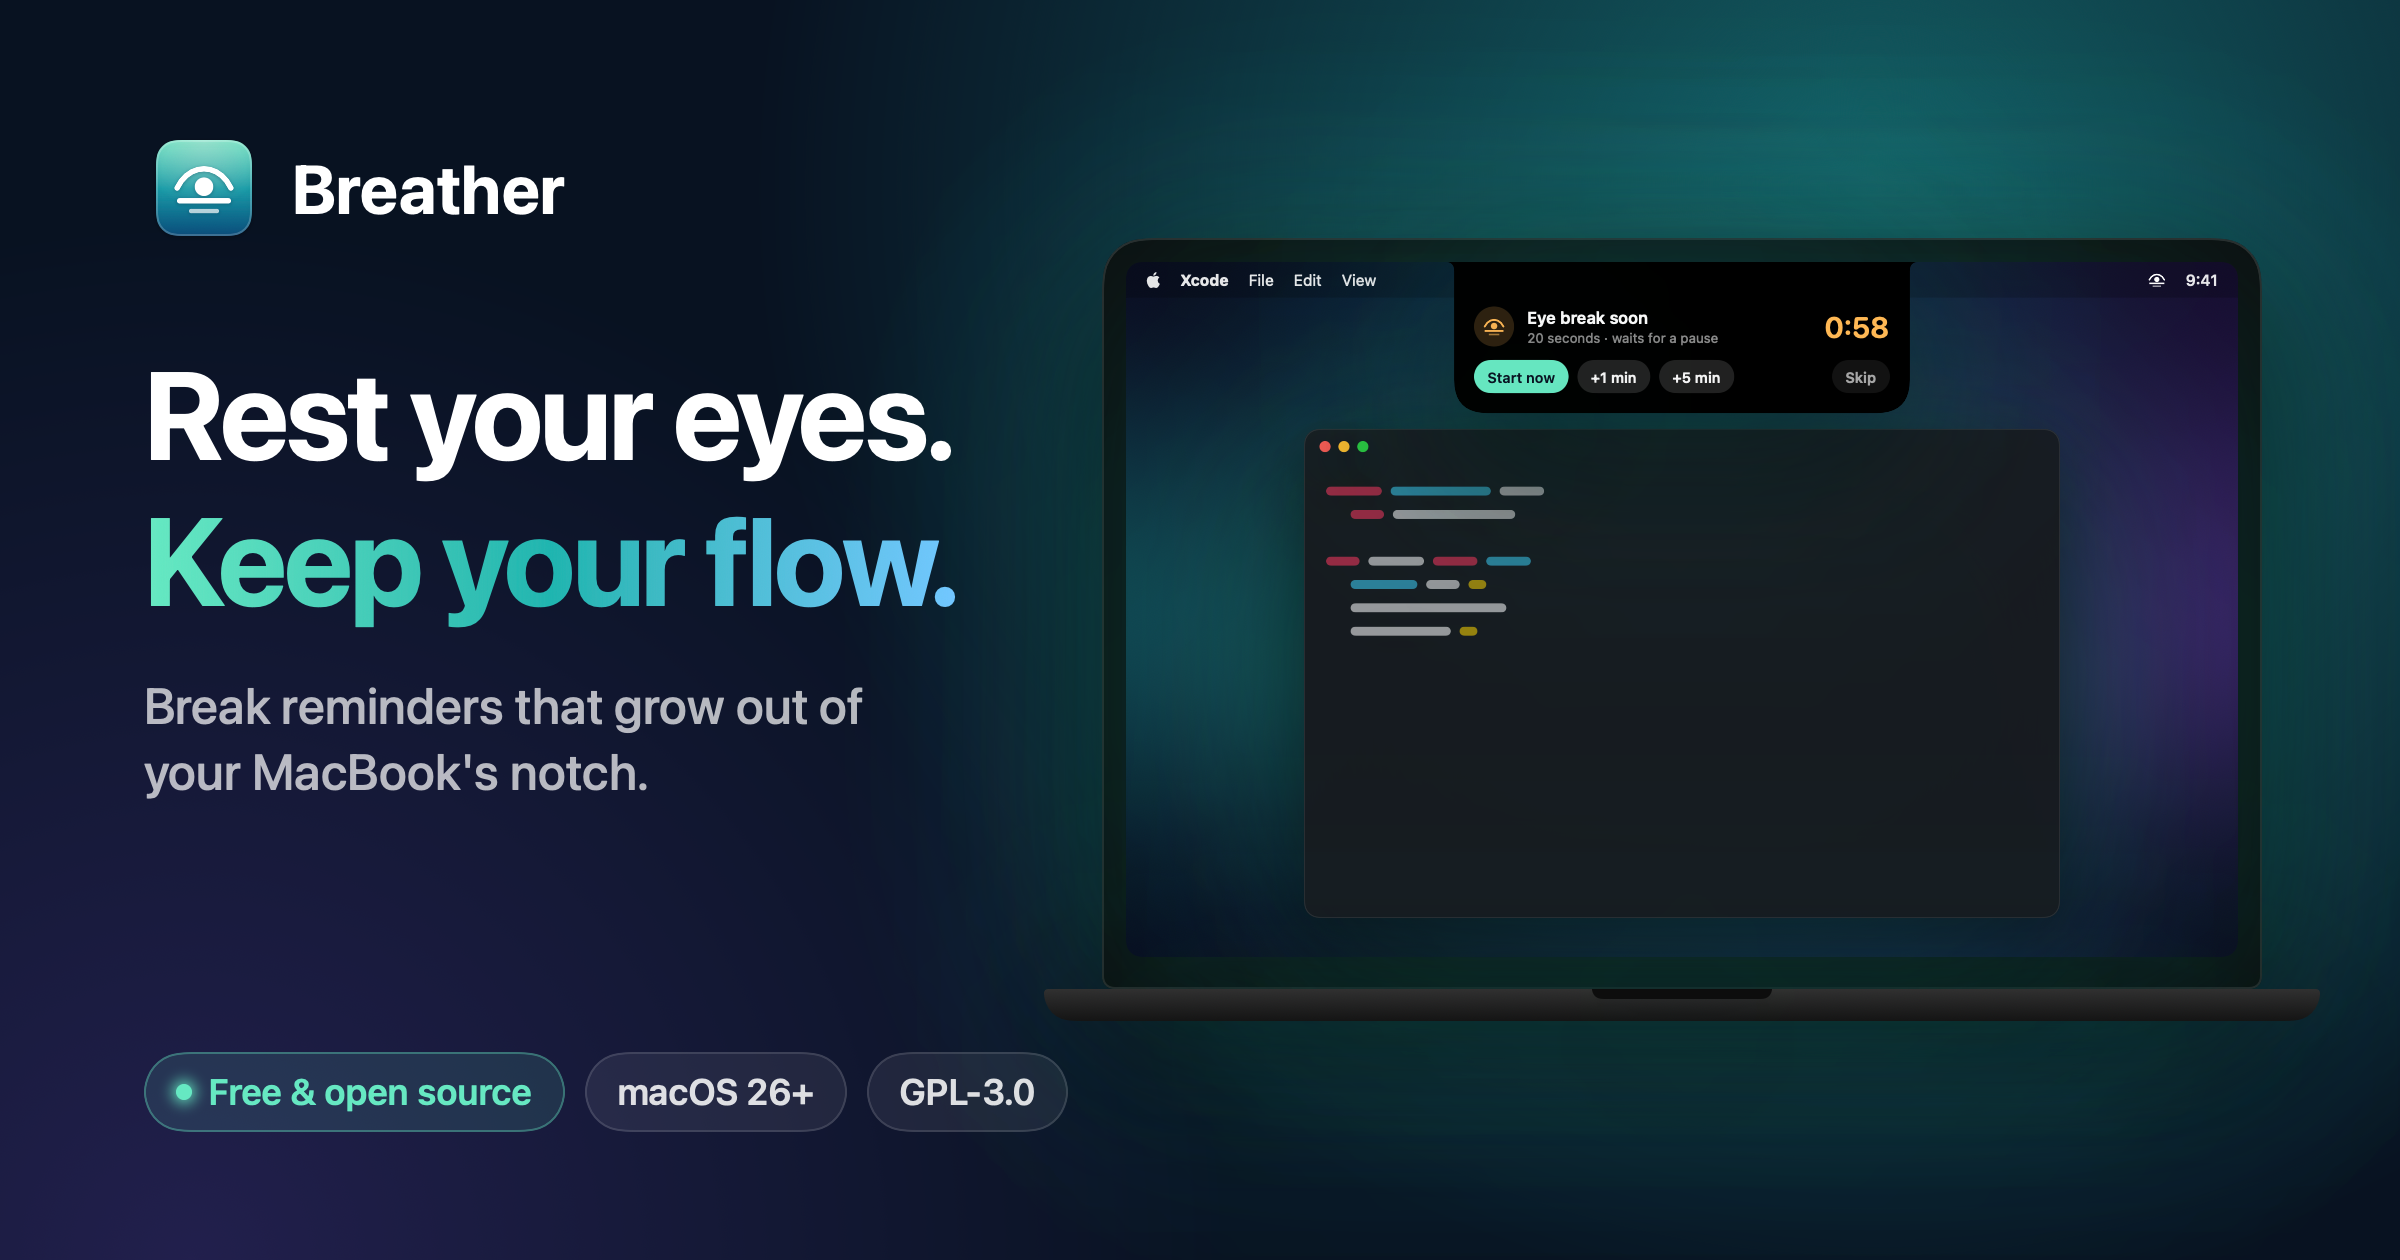
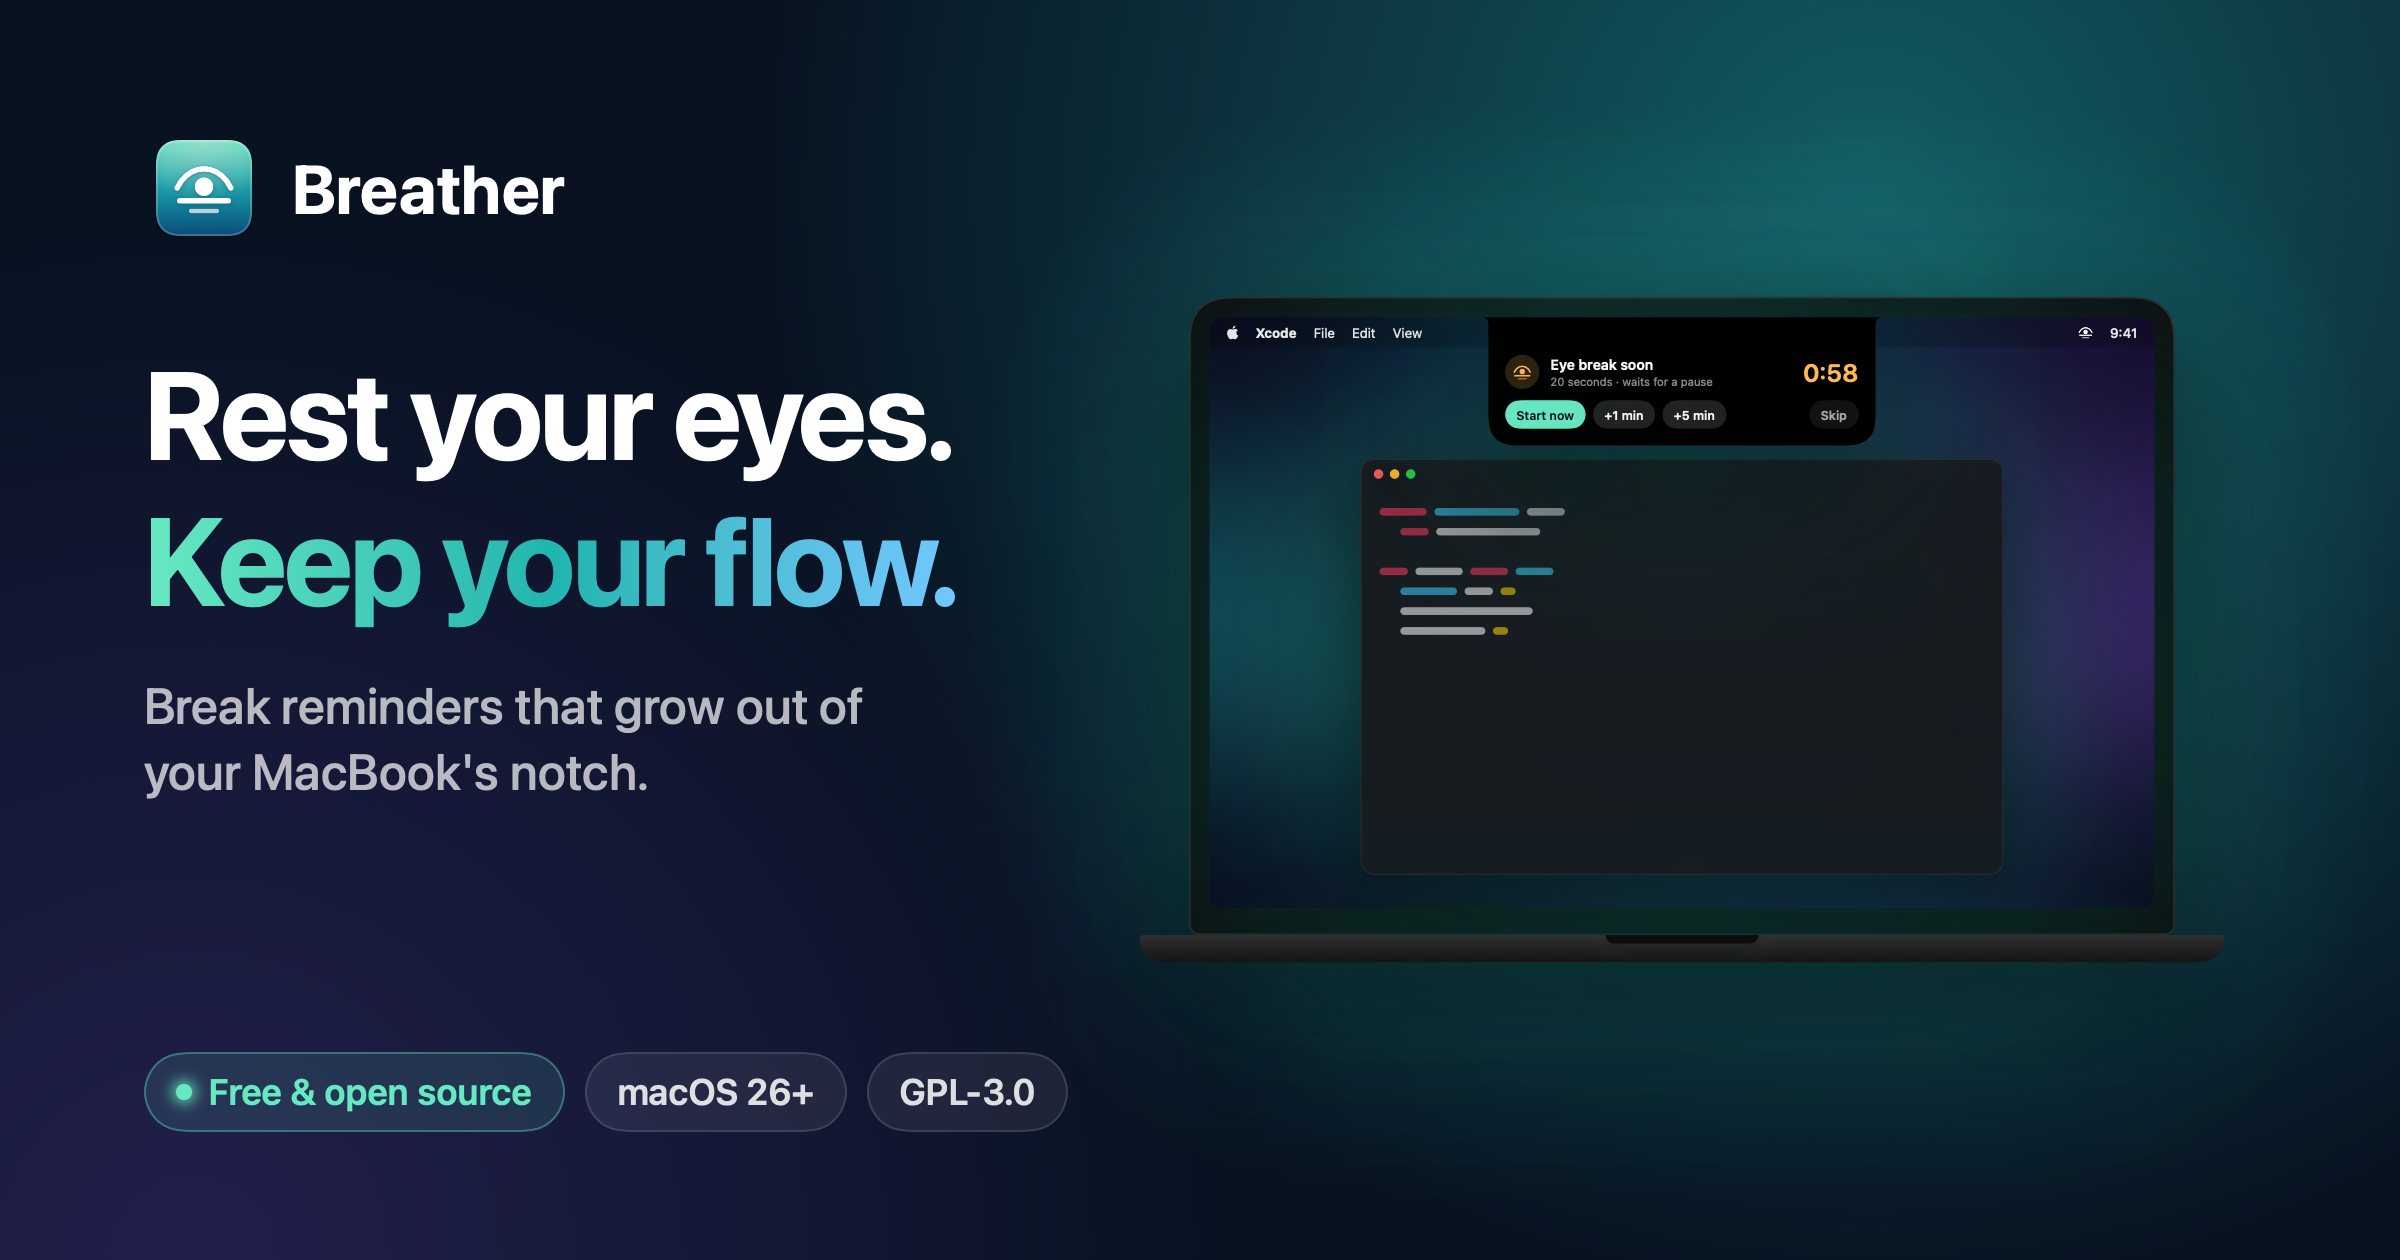
Social card: MacBook at 85% on the Open Graph image

Changed region(s): [[0.4375, 0.1857, 0.9688, 0.8357]]

diff --git a/Sources/Breather/Support/AssetRenderer.swift b/Sources/Breather/Support/AssetRenderer.swift
@@ -46,7 +46,7 @@ enum AssetRenderer {
         if let i = args.firstIndex(of: "--render-social"), i + 1 < args.count {
             AppModel.shared.prepareForSnapshots()
             // Open Graph card at 2× (2400×1260); with a second path, GitHub's 1280×640 card at 2× too.
-            write(SocialCard(app: AppModel.shared), scale: 2, to: URL(fileURLWithPath: args[i + 1]))
+            write(SocialCard(app: AppModel.shared, macScale: 0.85), scale: 2, to: URL(fileURLWithPath: args[i + 1]))
             if i + 2 < args.count, !args[i + 2].hasPrefix("-") {
                 write(SocialCard(app: AppModel.shared, size: CGSize(width: 1280, height: 640)), scale: 2,
                       to: URL(fileURLWithPath: args[i + 2]))
@@ -211,6 +211,7 @@ private struct SnapshotContent: View {
 private struct SocialCard: View {
     let app: AppModel
     var size = CGSize(width: 1200, height: 630)
+    var macScale: CGFloat = 1
 
     var body: some View {
         ZStack(alignment: .topLeading) {
@@ -223,6 +224,7 @@ private struct SocialCard: View {
 
             macBook
                 .frame(width: 580 * 1.1)
+                .scaleEffect(macScale)
                 .offset(x: size.width - 580 * 1.1 - 40, y: (size.height - 392) / 2)
 
             VStack(alignment: .leading, spacing: 0) {
